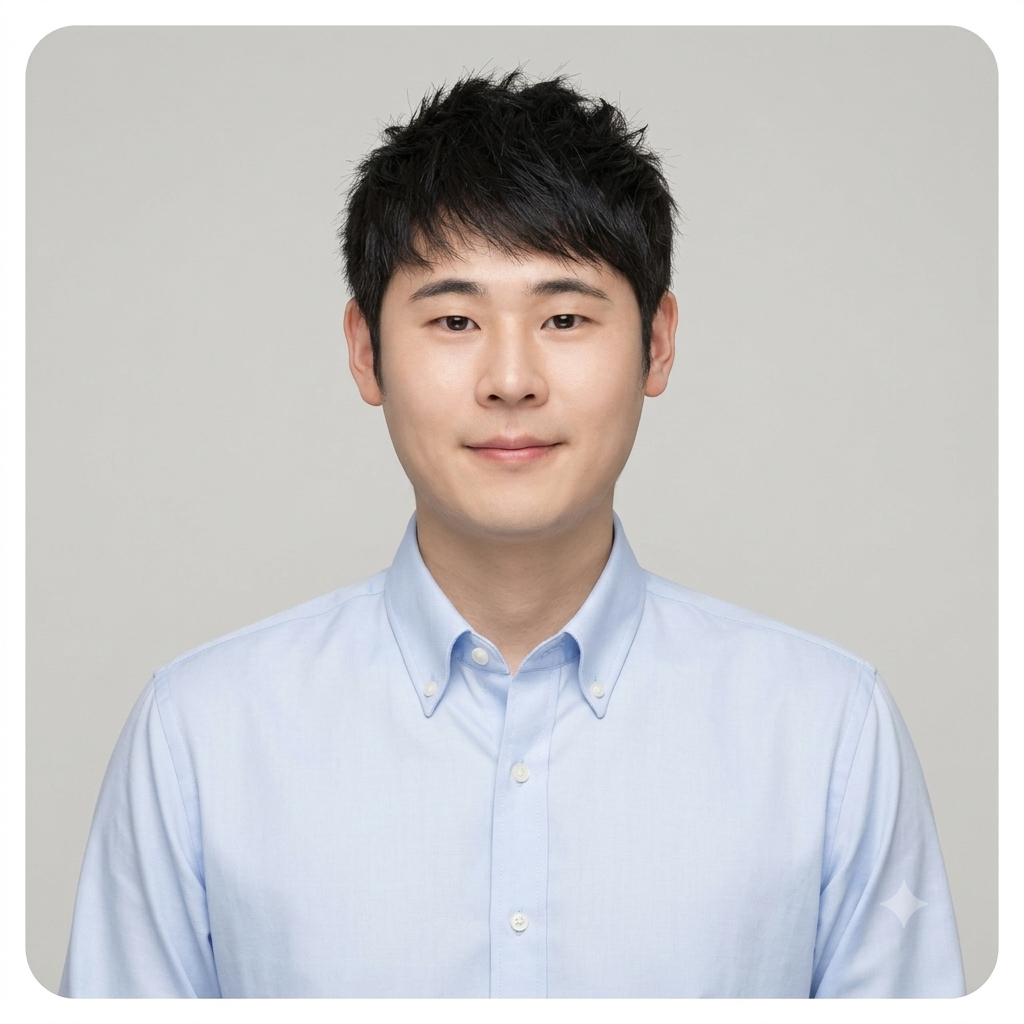
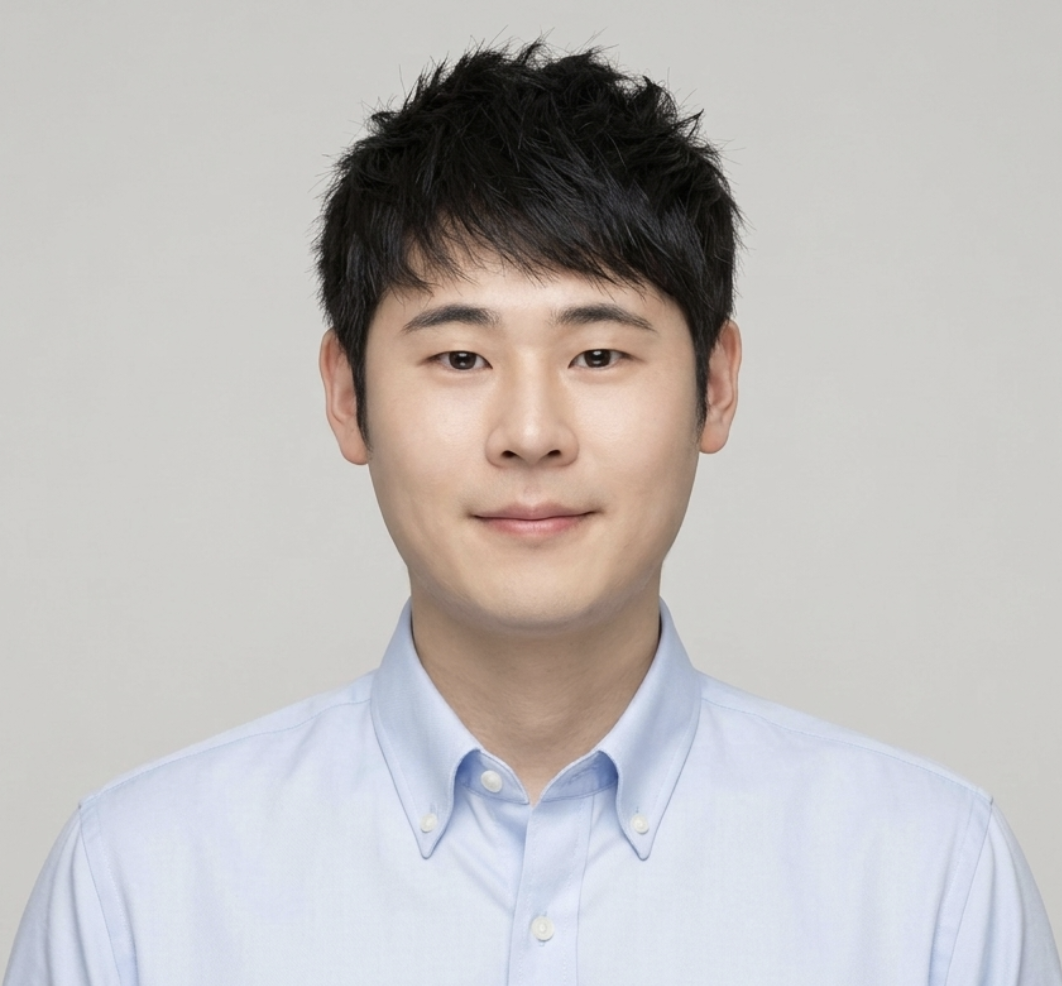
팀 섹션 캐러셀로 전환, CBO/CEO 사진 로컬 자산 교체
- Team 섹션을 History처럼 가로 롤링 캐러셀로 변경, 카드 크기 축소
- 캐러셀 트랙이 컨테이너 폭을 못 채우던 문제 수정(카드 폭 조정 + 정사각형 비율)
- CBO(김태현) 사진을 얼굴 중심으로 재크롭해 다른 팀원과 톤 통일
- CEO 사진을 CDN 대신 로컬 정적 자산으로 교체
- 팀원 설명 텍스트 1px 확대

Claude-Session: https://claude.ai/code/session_01Lc4WgdmYzaTafMDeFJq5vS

diff --git a/src/widgets/team/ui/team.tsx b/src/widgets/team/ui/team.tsx
@@ -1,7 +1,7 @@
 import { Link2Icon } from "lucide-react"
 import { cn } from "cn"
 
-import { PlaceholderMedia } from "@/shared/ui"
+import { Carousel, PlaceholderMedia } from "@/shared/ui"
 
 /** Known brand hint for a social link's icon. `iconSrc` (real logo image) always wins when both are provided. */
 export type TeamMemberSocialIconKey = "linkedin" | "x" | "blog"
@@ -76,10 +76,17 @@ export function TeamSection({ eyebrow, title, subtitle, members, className }: Te
           ) : null}
         </div>
 
-        <div className="mt-10 grid grid-cols-1 gap-x-6 gap-y-10 sm:grid-cols-2 lg:mt-14 lg:grid-cols-4 lg:gap-x-8">
-          {members.map((member) => (
-            <TeamMemberCard key={member.name} member={member} />
-          ))}
+        <div className="mt-10 lg:mt-14">
+          <Carousel
+            label={title}
+            prevLabel="이전 팀원"
+            nextLabel="다음 팀원"
+            className="[--carousel-item-width:170px] sm:[--carousel-item-width:200px] lg:[--carousel-item-width:240px]"
+          >
+            {members.map((member) => (
+              <TeamMemberCard key={member.name} member={member} />
+            ))}
+          </Carousel>
         </div>
       </div>
     </section>
@@ -96,14 +103,14 @@ function TeamMemberCard({ member }: { member: TeamMember }) {
         alt={imageAlt ?? `${name} 프로필 사진`}
         fill
         sizes="(min-width: 1024px) 25vw, (min-width: 640px) 50vw, 100vw"
-        className="aspect-[4/5] w-full rounded-2xl"
+        className="aspect-square w-full rounded-2xl"
       />
 
-      <h3 className="mt-4 text-[18px] font-bold text-foreground lg:mt-5 lg:text-[19px]">
+      <h3 className="mt-3 text-[16px] font-bold text-foreground lg:mt-4 lg:text-[17px]">
         {name}
       </h3>
-      <p className="text-[15.5px] font-medium text-foreground/70">{role}</p>
-      <p className="mt-3 text-[14.5px] leading-[1.6] whitespace-pre-line text-muted-foreground">
+      <p className="text-[13.5px] font-medium text-foreground/70">{role}</p>
+      <p className="mt-2 text-[13.5px] leading-[1.55] whitespace-pre-line text-muted-foreground">
         {bio}
       </p>
 

diff --git a/src/entities/company/model/team-content.ts b/src/entities/company/model/team-content.ts
@@ -26,7 +26,8 @@ export const teamMembers: TeamMemberContent[] = [
     name: "이재강",
     role: "대표이사",
     bio: "IT/디지털자산 산업에서 축적한 창업·사업 경험을 바탕으로,\nINEX의 디지털자산 금융 인프라 사업과 성장 전략을 이끕니다.",
-    imageSrc: `${TEAM_PHOTO_BASE}/ceo_2.png`,
+    // 로컬 제공 이미지로 교체 (다른 항목처럼 public/images/team/ 정적 자산 참조).
+    imageSrc: "/images/team/ceo.png",
     imageAlt: "이재강 대표이사 프로필 사진",
   },
   {
@@ -57,6 +58,9 @@ export const teamMembers: TeamMemberContent[] = [
     // 다른 팀원은 상위 프로젝트의 실제 CDN 사진(TEAM_PHOTO_BASE)을 쓰지만,
     // CBO 사진은 CDN에 아직 없는 로컬 제공 이미지(ref/team/cbo.png)라
     // public/images/team/에 정적 자산으로 넣어 참조한다.
+    // 원본(ref/team/cbo.png, 1024x1024 정사각형)은 상반신이 넓게 나와 다른
+    // 팀원과 톤이 달랐음 — public 자산은 얼굴 중심으로 확대 크롭해 맞춘 버전
+    // (640x800, 카드는 정사각형 표시 영역이라 세로가 추가로 크롭됨).
     imageSrc: "/images/team/cbo.png",
     imageAlt: "김태현 CBO 프로필 사진",
   },
